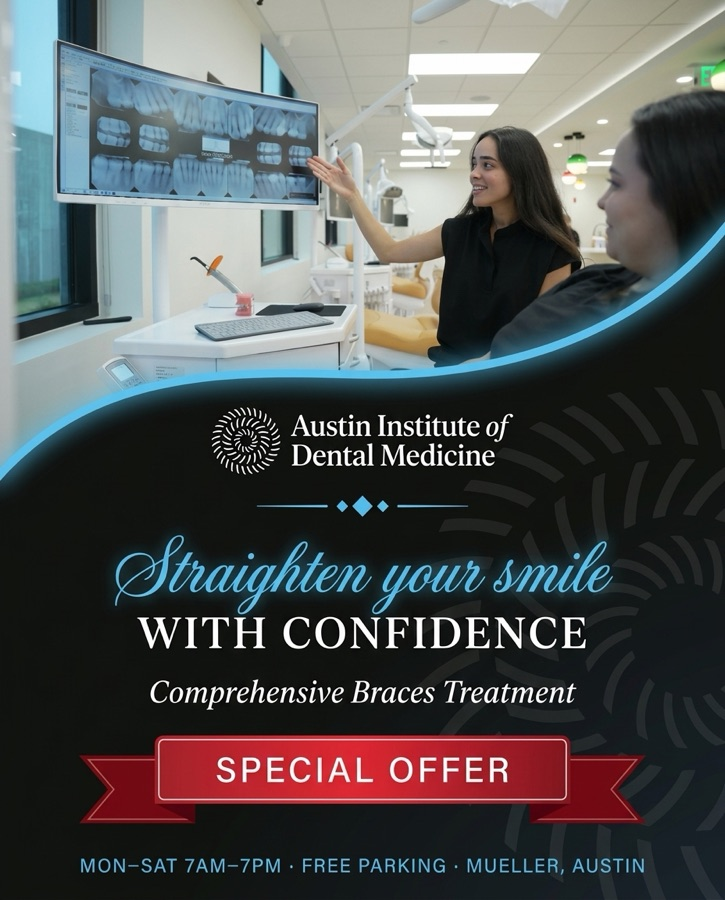
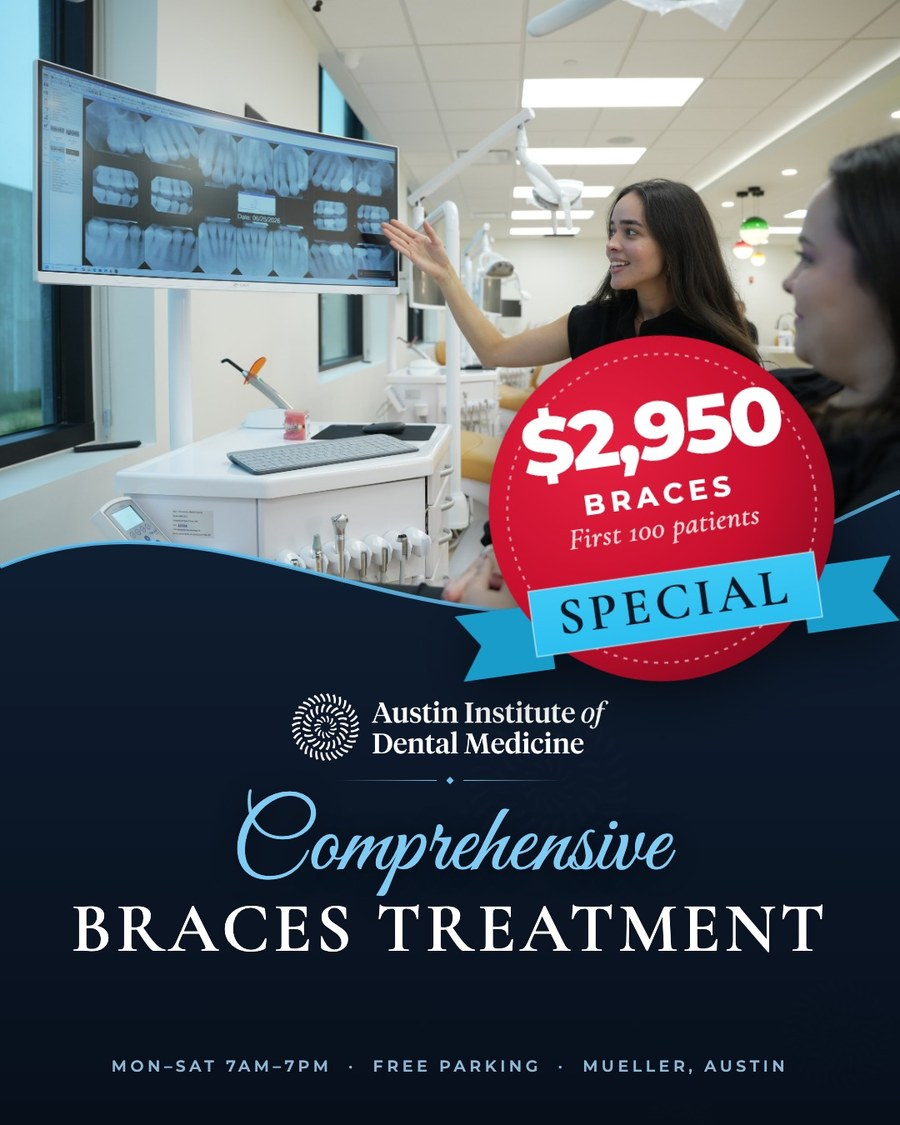
Rebuild all ten Meta ad creatives price-forward per client feedback
A1/A2 lose the tagline, specialty list and address; A2 headline becomes
"Comprehensive Dental Care. One Modern Location." B1-B7 and C1 carry the
offer price in a red circle with an AIDM-blue SPECIAL ribbon and drop
the secondary copy. Builder lives in tools/meta/build_creatives.py;
1080x1350 masters under creatives/v2, previous set archived in v1.

diff --git a/tools/meta/build_creatives.py b/tools/meta/build_creatives.py
@@ -1,0 +1,285 @@
+#!/usr/bin/env python3
+"""Meta ad creatives, v2 — price-forward per Dr. Suman's Sep 9 feedback.
+
+One HTML template rendered with Playwright at 1080x1350 (4:5). The offer
+price sits in a red badge as the first thing the eye lands on; copy is cut
+to a headline, one tagline and the hours line.
+"""
+import base64, os, sys
+from playwright.sync_api import sync_playwright
+
+HERE = os.path.dirname(os.path.abspath(__file__))
+ROOT = os.path.abspath(os.path.join(HERE, '..', '..'))
+PROJ = os.path.abspath(os.path.join(ROOT, '..'))
+OUT = os.path.join(ROOT, 'sheet-assets', 'creatives', 'v2')
+os.makedirs(OUT, exist_ok=True)
+
+def b64(path):
+    ext = path.rsplit('.', 1)[-1].lower()
+    mime = {'jpg': 'image/jpeg', 'jpeg': 'image/jpeg', 'png': 'image/png'}[ext]
+    with open(path, 'rb') as f:
+        return f'data:{mime};base64,' + base64.b64encode(f.read()).decode()
+
+LOGO = b64(os.path.join(PROJ, 'vydhai/aidm-creative/assets/logo_horizontal_white.png'))
+MARK = b64(os.path.join(ROOT, 'aidm-lp-assets/brand-watermark.png'))
+
+SPECS = {
+    'a1': dict(
+        layout='a1',
+        photo=os.path.join(PROJ, 'vydhai/aidm-creative/assets/a1_front_desk.jpg'),
+        pos='50% 60%',
+        circles=[os.path.join(PROJ, 'vydhai/aidm-creative/assets/a1_exterior.jpg'),
+                 os.path.join(PROJ, 'vydhai/aidm-creative/assets/a1_waiting.jpg'),
+                 os.path.join(PROJ, 'vydhai/aidm-creative/assets/a1_treatment.jpg')],
+        head='Your Family&rsquo;s New<br>Dental Home.',
+    ),
+    'a2': dict(
+        layout='a2',
+        photo=os.path.join(PROJ, 'vydhai/aidm-creative/assets/a2_openbay.jpg'),
+        pos='50% 55%',
+        circles=[os.path.join(PROJ, 'vydhai/aidm-creative/assets/a1_exterior.jpg'), os.path.join(PROJ, 'vydhai/aidm-creative/assets/a1_front_desk.jpg'), os.path.join(PROJ, 'vydhai/aidm-creative/assets/a2_lounge.jpg'), os.path.join(PROJ, 'vydhai/aidm-creative/assets/a1_waiting.jpg')],
+        head='Comprehensive Dental Care.<br>One Modern Location.',
+    ),
+    'b1': dict(
+        photo=os.path.join(ROOT, 'aidm-lp-assets/staff/resident-patient.jpg'),
+        pos='50% 35%', badge_style='--s:420px;top:396px;right:76px', shift=36,
+        badge='circle', price='$100', badge_top='NEW PATIENT', badge_bottom='SPECIAL',
+        badge_note='Exam + X-rays',
+        script='Now Accepting', caps='New Patients',
+        tagline='',
+    ),
+    'b2': dict(
+        photo=os.path.join(PROJ, 'vydhai/aidm-creative/assets/clinician_patient_screen_smiling.jpg'),
+        pos='42% 40%', badge_style='--s:420px;top:400px;right:76px', shift=36,
+        badge='circle', price='$2,950', badge_top='BRACES', badge_bottom='SPECIAL',
+        badge_note='First 100 patients',
+        script='Comprehensive', caps='Braces Treatment',
+        tagline='',
+    ),
+    'b3': dict(
+        photo=os.path.join(PROJ, 'vydhai/aidm-creative/assets/b3_xray_screen_behind.jpg'),
+        pos='50% 40%', badge_style='--s:420px;top:400px;right:76px', shift=36,
+        badge='circle', price='$3,900', badge_top='INVISALIGN', badge_bottom='SPECIAL',
+        badge_note='Free consultation',
+        script='Invisalign', caps='Clear Aligners',
+        tagline='',
+    ),
+    'b4': dict(
+        photo=os.path.join(PROJ, 'vydhai/aidm-creative/assets/b4_two_clinicians_wide.jpg'),
+        pos='50% 40%', badge_style='--s:420px;top:400px;right:76px', shift=36,
+        badge='circle', price='$2,500', badge_top='EARLY ORTHO', badge_bottom='SPECIAL',
+        badge_note='Free consultation',
+        script='Does your child', caps='Need Braces Yet?',
+        tagline='',
+    ),
+    'b5': dict(
+        photo=os.path.join(PROJ, 'vydhai/aidm-creative/assets/b5_consult_male_patient.jpg'),
+        pos='70% 40%', badge_style='--s:400px;top:446px;right:70px', shift=50,
+        badge='circle', pre='FROM', price='$3,750', badge_top='IMPLANT + CROWN', badge_bottom='SPECIAL',
+        badge_note='Free consultation',
+        script='Single Implant', caps='& Ceramic Crown',
+        tagline='',
+    ),
+    'b6': dict(
+        photo=os.path.join(PROJ, 'vydhai/aidm-creative/assets/b6_scanner.jpg'),
+        pos='50% 40%', badge_style='--s:420px;top:400px;right:76px', shift=36,
+        badge='circle', pre='FROM', price='$18,000', badge_top='PER ARCH', badge_bottom='SPECIAL',
+        badge_note='Free consultation',
+        script='A full smile.', caps='Fixed Full-Arch Teeth',
+        tagline='',
+    ),
+    'b7': dict(
+        photo=os.path.join(PROJ, 'vydhai/aidm-creative/assets/b7_two_clinicians_close.jpg'),
+        pos='50% 30%', badge_style='--s:420px;top:400px;right:76px', shift=36,
+        badge='circle', pre='FROM', price='$9,500', badge_top='PER ARCH', badge_bottom='SPECIAL',
+        badge_note='Free consultation',
+        script='Snap-In', caps='Dentures',
+        tagline='',
+    ),
+    'c1': dict(
+        photo=os.path.join(ROOT, 'aidm-lp-assets/staff/resident-patient.jpg'),
+        pos='50% 35%', badge_style='--s:420px;top:396px;right:76px', shift=36,
+        badge='circle', price='$100', badge_top='PACIENTE NUEVO', badge_bottom='ESPECIAL',
+        badge_note='Examen + radiografías',
+        script='Ahora aceptamos', caps='Pacientes Nuevos',
+        tagline='',
+        hours='Lun&ndash;S&aacute;b 7am&ndash;7pm &nbsp;&middot;&nbsp; Estacionamiento gratis &nbsp;&middot;&nbsp; Mueller, Austin',
+    ),
+}
+
+CSS = '''
+@import url('https://fonts.googleapis.com/css2?family=Great+Vibes&family=Cormorant+Garamond:ital,wght@0,500;0,600;1,500&family=Montserrat:wght@500;600;700;800&family=Source+Serif+4:opsz,wght@8..60,600;8..60,700&display=swap');
+*{margin:0;padding:0;box-sizing:border-box}
+body{width:1080px;height:1350px;overflow:hidden;background:#0b1727;font-family:'Cormorant Garamond',serif;color:#fff;position:relative}
+.photo{position:absolute;inset:0 0 auto 0;height:800px;width:1080px;object-fit:cover}
+.wave{position:absolute;left:0;top:560px;width:1080px;height:790px}
+.mark{position:absolute;right:-140px;bottom:-120px;width:720px;opacity:.10}
+.logo{position:absolute;left:50%;top:calc(796px + var(--y));transform:translateX(-50%);width:380px}
+.dia{position:absolute;left:50%;transform:translateX(-50%);display:flex;align-items:center;gap:10px;color:#6fc3ee;font-size:16px}
+.dia i{display:block;width:120px;height:1px;background:linear-gradient(90deg,transparent,#6fc3ee)}
+.dia i.r{background:linear-gradient(90deg,#6fc3ee,transparent)}
+.script{position:absolute;left:0;right:0;top:calc(922px + var(--y));text-align:center;font-family:'Great Vibes',cursive;font-size:118px;line-height:1;color:#7fcbf3;text-shadow:0 4px 30px rgba(0,0,0,.45)}
+.caps{position:absolute;left:0;right:0;top:calc(1036px + var(--y));text-align:center;font-weight:600;font-size:84px;line-height:1;letter-spacing:.06em;text-transform:uppercase}
+.rule{position:absolute;left:50%;top:1150px;transform:translateX(-50%);width:300px;height:2px;background:linear-gradient(90deg,transparent,#3fa9e6,transparent)}
+.tag{position:absolute;left:0;right:0;top:1170px;text-align:center;font-style:italic;font-weight:500;font-size:40px;color:#9fd8f7}
+.hours{position:absolute;left:0;right:0;top:1268px;text-align:center;font-family:Montserrat,sans-serif;font-weight:600;font-size:19px;letter-spacing:.24em;color:#8fb6d3;text-transform:uppercase}
+
+
+/* ---- A1 brand layout ---- */
+.a1 .photo{height:620px}
+.a1 .wave{top:440px;height:910px}
+.circ{position:absolute;top:520px;width:300px;height:300px;border-radius:50%;overflow:hidden;border:6px solid #5fc0f0;box-shadow:0 16px 36px rgba(0,0,0,.55)}
+.circ img{width:100%;height:100%;object-fit:cover}
+.a1 .logo{top:896px;width:360px}
+.head{position:absolute;left:0;right:0;top:976px;text-align:center;font-family:'Source Serif 4',serif;font-weight:700;font-size:92px;line-height:1.1;color:#fff;letter-spacing:-.005em}
+.a1 .rule{top:1196px;width:520px}
+.a1 .dia{top:1216px}
+
+
+/* ---- A2 brand layout (navy top, photo bottom) ---- */
+.a2 .photo{top:auto;bottom:0;height:820px}
+.a2 .wave{top:0;height:800px}
+.a2 .mark{right:auto;left:-260px;top:-200px;bottom:auto;width:760px;opacity:.10}
+.a2 .logo{top:70px;width:400px}
+.a2 .head{top:214px;font-size:84px;font-weight:600;letter-spacing:.004em;line-height:1.16}
+.a2 .rule{top:452px;width:520px}
+.a2 .dia{top:472px}
+.a2 .circ{border-width:5px}
+
+/* ---- price badge ---- */
+.badge{--s:320px;position:absolute;right:48px;top:500px;width:var(--s);height:var(--s);transform:rotate(-8deg);filter:drop-shadow(0 18px 34px rgba(0,0,0,.55))}
+.badge svg{position:absolute;inset:0;width:100%;height:100%}
+.badge .txt{position:absolute;inset:0;display:flex;flex-direction:column;align-items:center;justify-content:center;font-family:Montserrat,sans-serif;text-align:center;line-height:1}
+.badge .t{font-weight:700;font-size:calc(var(--s) * .08);letter-spacing:.2em;color:#ffe3e3}
+.badge .p{font-weight:800;font-size:calc(var(--s) * .31);letter-spacing:-.03em;margin:6px 0 2px;color:#fff}
+.badge .b{font-weight:800;font-size:calc(var(--s) * .105);letter-spacing:.28em;color:#fff}
+.badge .n{margin-top:calc(var(--s) * .04);font-family:'Cormorant Garamond',serif;font-style:italic;font-weight:500;font-size:calc(var(--s) * .085);color:#ffd9d9;letter-spacing:.02em}
+.circle .txt{padding-bottom:calc(var(--s) * .30)}
+.circle .p{margin:0 0 calc(var(--s) * .03)}
+.circle .t{color:#fff}
+.circle .n{margin-top:calc(var(--s) * .02)}
+.circle.long .txt{padding-bottom:calc(var(--s) * .24)}
+.badge .pre{font-weight:700;font-size:calc(var(--s) * .055);letter-spacing:.3em;color:#ffd9d9;margin-bottom:calc(var(--s) * -.01)}
+.circle.xlong .p{font-size:calc(var(--s) * .195);letter-spacing:-.04em}
+.circle.widelabel .t{font-size:calc(var(--s) * .062);letter-spacing:.16em}
+.circle.long .p{font-size:calc(var(--s) * .23);letter-spacing:-.04em}
+.circle.long .n{margin-top:calc(var(--s) * .01)}
+.rosette .p{font-size:calc(var(--s) * .28)}
+'''
+
+def circle_svg(label):
+    # Red seal with a ribbon sash wrapped across its lower third; the tails sit
+    # behind the disc and the band in front, so it reads as wrapped around it.
+    return f'''<svg viewBox="0 0 340 340" style="overflow:visible">
+<defs><radialGradient id="g" cx="35%" cy="30%" r="80%"><stop offset="0" stop-color="#e5203f"/><stop offset=".6" stop-color="#c8102e"/><stop offset="1" stop-color="#8a0a20"/></radialGradient>
+<linearGradient id="rb" x1="0" y1="0" x2="0" y2="1"><stop offset="0" stop-color="#3fc9f5"/><stop offset="1" stop-color="#2bbff0"/></linearGradient></defs>
+<polygon points="-44,246 46,246 46,310 -44,310 -22,278" fill="#1a9ccb"/>
+<polygon points="384,246 294,246 294,310 384,310 362,278" fill="#1a9ccb"/>
+<circle cx="170" cy="170" r="168" fill="url(#g)"/>
+<circle cx="170" cy="170" r="150" fill="none" stroke="#fff" stroke-opacity=".55" stroke-width="2" stroke-dasharray="4 6"/>
+<polygon points="30,246 46,232 46,246" fill="#0f6f93"/>
+<polygon points="310,246 294,232 294,246" fill="#0f6f93"/>
+<rect x="30" y="232" width="280" height="64" fill="url(#rb)"/>
+<rect x="30" y="232" width="280" height="64" fill="none" stroke="#fff" stroke-opacity=".5" stroke-width="1.5"/>
+<text x="170" y="278" text-anchor="middle" font-family="'Cormorant Garamond',serif" font-weight="700" font-size="{50 if len(label) <= 7 else 44}" letter-spacing="{5 if len(label) <= 7 else 3}" fill="#0b1727">{label}</text>
+</svg>'''
+
+def rosette_svg():
+    import math
+    pts = []
+    n = 36
+    for i in range(n * 2):
+        a = math.pi * 2 * i / (n * 2)
+        r = 168 if i % 2 == 0 else 154
+        pts.append(f'{170 + r * math.cos(a):.1f},{170 + r * math.sin(a):.1f}')
+    poly = ' '.join(pts)
+    return f'''<svg viewBox="0 0 340 340">
+<defs><radialGradient id="g" cx="35%" cy="30%" r="80%"><stop offset="0" stop-color="#e5203f"/><stop offset=".6" stop-color="#c8102e"/><stop offset="1" stop-color="#8a0a20"/></radialGradient></defs>
+<polygon points="{poly}" fill="url(#g)"/>
+<circle cx="170" cy="170" r="140" fill="none" stroke="#fff" stroke-opacity=".6" stroke-width="2"/>
+<circle cx="170" cy="170" r="134" fill="none" stroke="#fff" stroke-opacity=".25" stroke-width="1"/>
+</svg>'''
+
+WAVE = '''<svg class="wave" viewBox="0 0 1080 790" preserveAspectRatio="none">
+<defs><linearGradient id="w" x1="0" y1="0" x2="0" y2="1"><stop offset="0" stop-color="#101f33"/><stop offset="1" stop-color="#070f1b"/></linearGradient></defs>
+<path d="M0,120 C260,10 520,250 800,150 C930,105 1010,60 1080,30 L1080,790 L0,790 Z" fill="url(#w)"/>
+<path d="M0,120 C260,10 520,250 800,150 C930,105 1010,60 1080,30" fill="none" stroke="#5fc0f0" stroke-width="5" stroke-opacity=".85"/>
+</svg>'''
+
+
+def html_a1(s):
+    circ = ''.join(f'<div class="circ" style="left:{x}px"><img src="{b64(p)}"></div>'
+                   for x, p in zip((60, 390, 720), s['circles']))
+    return f'''<!doctype html><html><head><meta charset="utf-8"><style>{CSS}</style></head><body class="a1" style="--y:0px">
+<img class="photo" src="{b64(s['photo'])}" style="object-position:{s['pos']}">
+{WAVE.replace('viewBox="0 0 1080 790"', 'viewBox="0 0 1080 790"')}
+<img class="mark" src="{MARK}">
+{circ}
+<img class="logo" src="{LOGO}">
+<div class="head">{s['head']}</div>
+<div class="rule"></div>
+<div class="dia"><i></i>&#9670;<i class="r"></i></div>
+<div class="hours">Mon&ndash;Sat 7am&ndash;7pm &nbsp;&middot;&nbsp; Free parking &nbsp;&middot;&nbsp; Mueller, Austin</div>
+</body></html>'''
+
+
+WAVE_A2 = '''<svg class="wave" viewBox="0 0 1080 800" preserveAspectRatio="none">
+<defs><linearGradient id="w2" x1="0" y1="0" x2="0" y2="1"><stop offset="0" stop-color="#070f1b"/><stop offset="1" stop-color="#101f33"/></linearGradient></defs>
+<path d="M0,0 L1080,0 L1080,640 C900,600 720,700 520,720 C320,740 150,770 0,760 Z" fill="url(#w2)"/>
+<path d="M1080,640 C900,600 720,700 520,720 C320,740 150,770 0,760" fill="none" stroke="#5fc0f0" stroke-width="5" stroke-opacity=".85"/>
+</svg>'''
+
+def html_a2(s):
+    # Staggered, overlapping, shrinking left to right and rising slightly, as
+    # in the original; earlier circles sit in front of later ones.
+    geo = [(224, 640, 290), (447, 632, 253), (670, 618, 223), (879, 604, 194)]
+    circ = ''.join(f'<div class="circ" style="left:{cx - d // 2}px;top:{cy - d // 2}px;width:{d}px;height:{d}px;z-index:{9 - i}"><img src="{b64(p)}"></div>'
+                   for i, ((cx, cy, d), p) in enumerate(zip(geo, s['circles'])))
+    return f'''<!doctype html><html><head><meta charset="utf-8"><style>{CSS}</style></head><body class="a2" style="--y:0px">
+<img class="photo" src="{b64(s['photo'])}" style="object-position:{s['pos']}">
+{WAVE_A2}
+<img class="mark" src="{MARK}">
+<img class="logo" src="{LOGO}">
+<div class="head">{s['head']}</div>
+<div class="rule"></div>
+<div class="dia"><i></i>&#9670;<i class="r"></i></div>
+{circ}
+</body></html>'''
+
+def html(s):
+    if s.get('layout') == 'a1':
+        return html_a1(s)
+    if s.get('layout') == 'a2':
+        return html_a2(s)
+    badge_svg = circle_svg(s['badge_bottom']) if s['badge'] == 'circle' else rosette_svg()
+    tag = f'<div class="rule"></div><div class="tag">{s["tagline"]}</div>' if s['tagline'] else ''
+    return f'''<!doctype html><html><head><meta charset="utf-8"><style>{CSS}</style></head><body style="--y:{s.get('shift',0)}px">
+<img class="photo" src="{b64(s['photo'])}" style="object-position:{s['pos']}">
+{WAVE}
+<img class="mark" src="{MARK}">
+<img class="logo" src="{LOGO}">
+<div class="dia" style="top:calc(890px + var(--y))"><i></i>&#9670;<i class="r"></i></div>
+<div class="script">{s['script']}</div>
+<div class="caps" style="font-size:{84 if len(s['caps']) <= 16 else 66}px">{s['caps']}</div>
+{tag}
+<div class="hours">{s.get('hours', 'Mon&ndash;Sat 7am&ndash;7pm &nbsp;&middot;&nbsp; Free parking &nbsp;&middot;&nbsp; Mueller, Austin')}</div>
+<div class="badge {s['badge']}{' long' if len(s['price']) > 4 else ''}{' xlong' if len(s['price']) > 6 else ''}{' widelabel' if len(s['badge_top']) > 12 else ''}" style="{s.get('badge_style','')}">{badge_svg}<div class="txt">
+{'' if s['badge'] == 'circle' else '<div class="t">' + s['badge_top'] + '</div>'}{'<div class="pre">' + s['pre'] + '</div>' if s.get('pre') else ''}<div class="p">{s['price']}</div>{'<div class="t">' + s['badge_top'] + '</div>' if s['badge'] == 'circle' else '<div class="b">' + s['badge_bottom'] + '</div>'}<div class="n">{s['badge_note']}</div>
+</div></div>
+</body></html>'''
+
+def main(ids):
+    with sync_playwright() as p:
+        br = p.chromium.launch()
+        pg = br.new_page(viewport={'width': 1080, 'height': 1350}, device_scale_factor=1)
+        for i in ids:
+            pg.set_content(html(SPECS[i]))
+            pg.wait_for_timeout(1500)  # web fonts
+            pg.evaluate('document.fonts.ready')
+            out = os.path.join(OUT, f'{i}.jpg')
+            pg.screenshot(path=out, type='jpeg', quality=92)
+            print('wrote', out)
+        br.close()
+
+if __name__ == '__main__':
+    main(sys.argv[1:] or list(SPECS))
